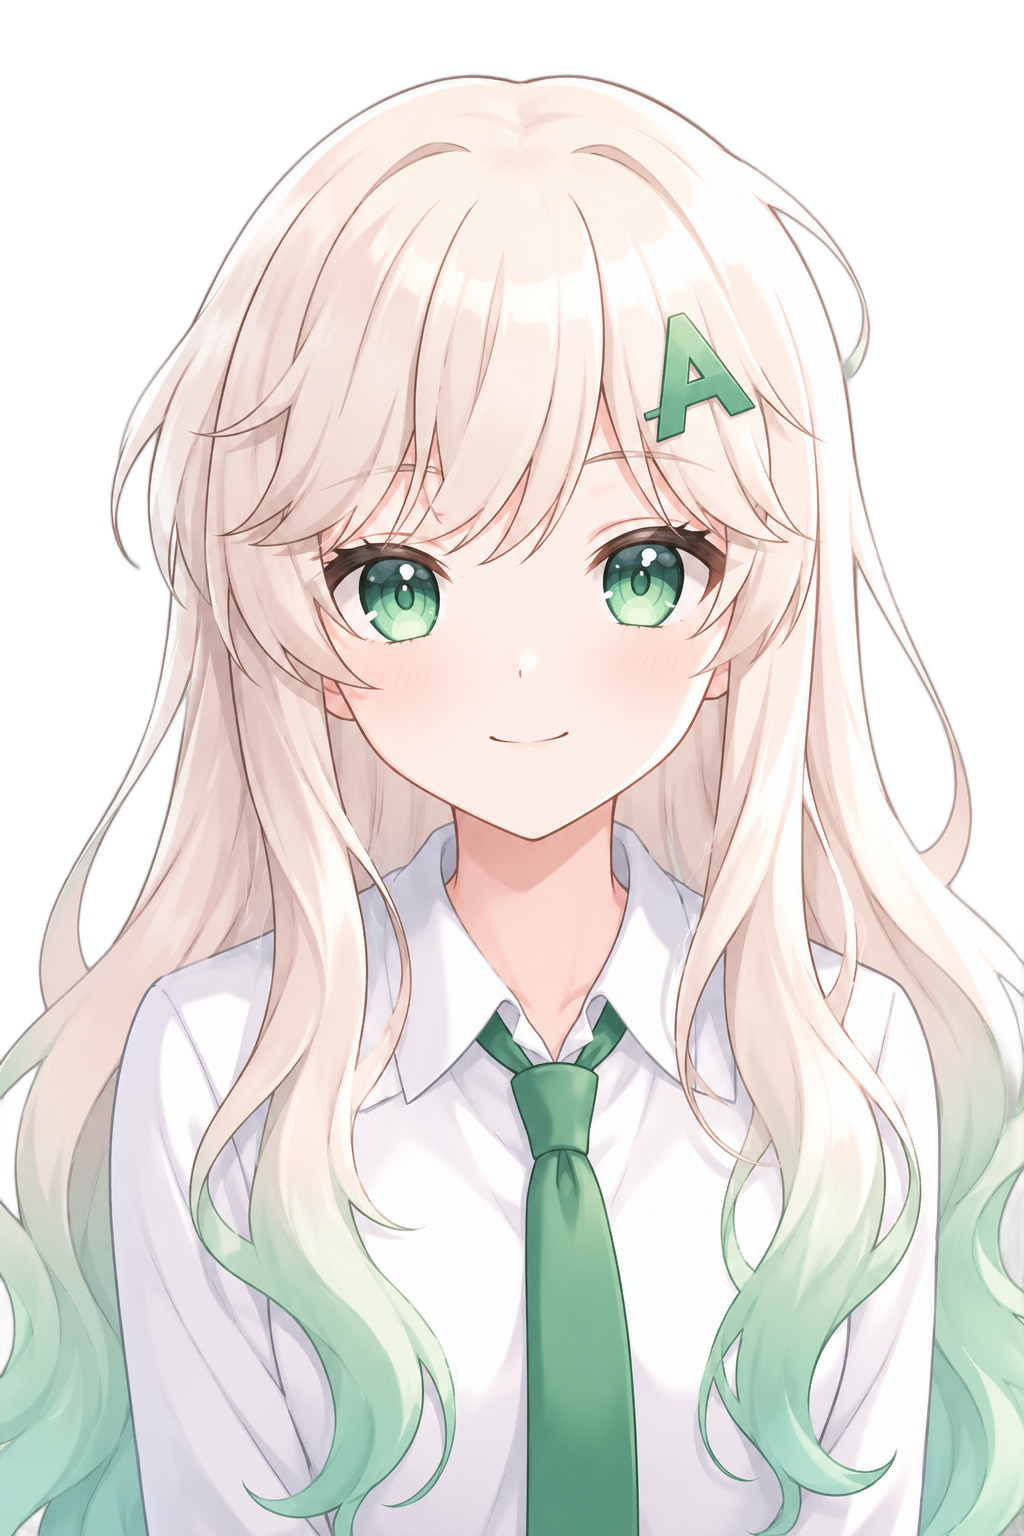
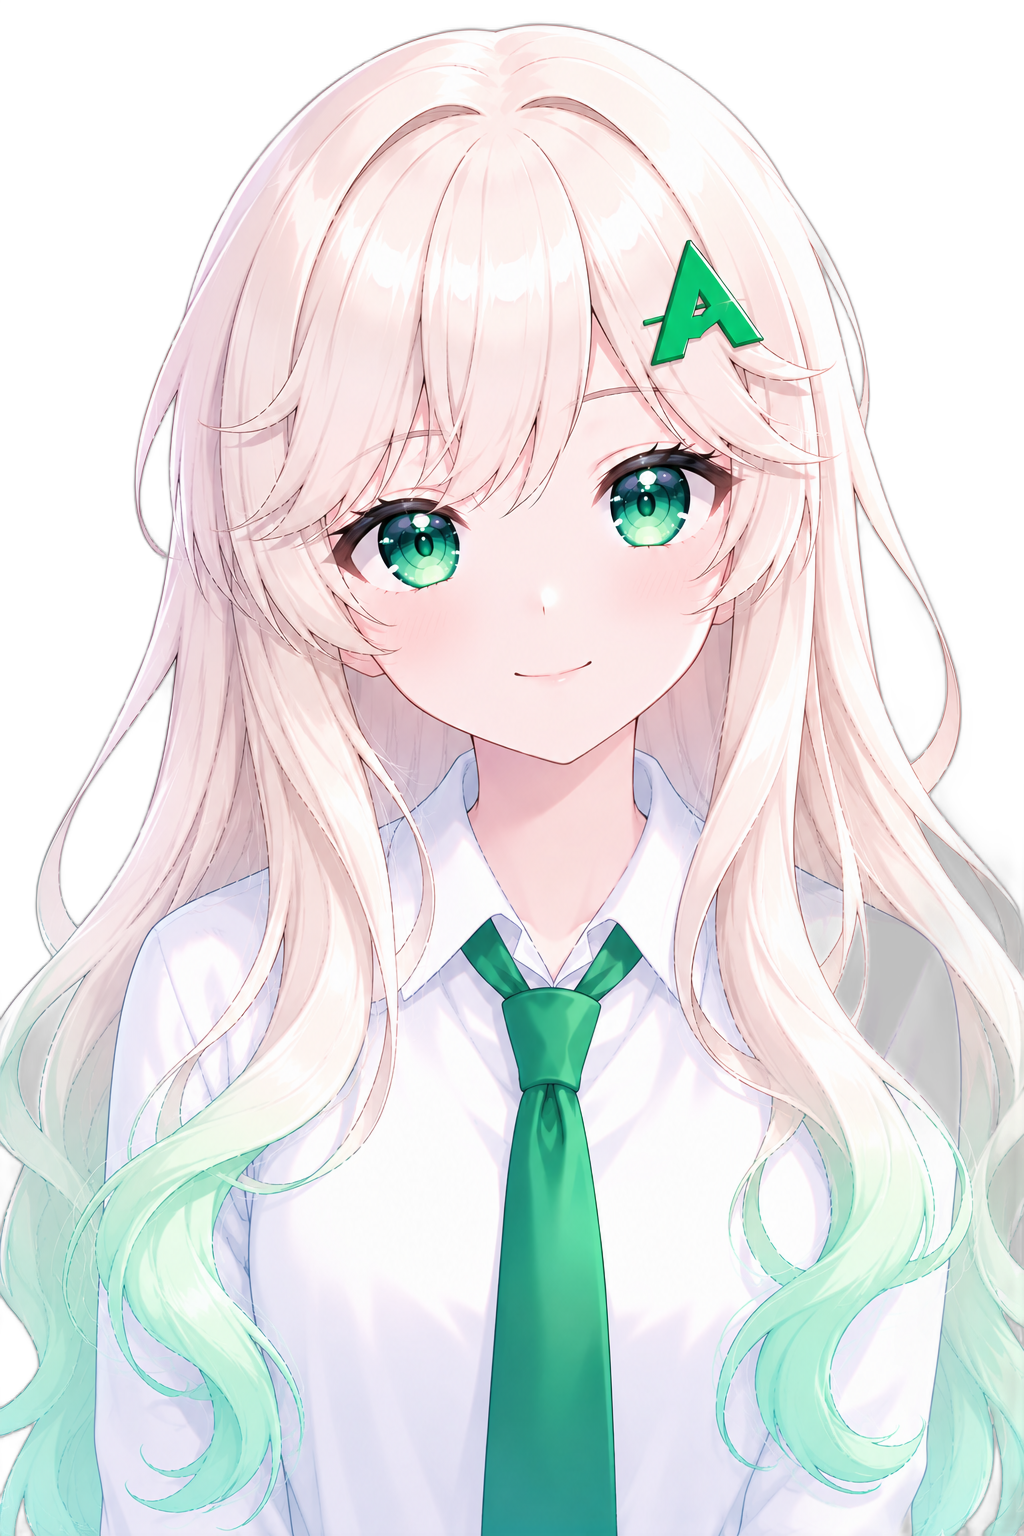
assets(mascot): complete Asahi expression set (base + high/medium/low/wave/thinking), transparent

diff --git a/docs/BRAND.md b/docs/BRAND.md
@@ -484,10 +484,20 @@ This brand requires sign-off from the team before being locked.
 
 ## 12. Mascot
 
-**Status**: Base art done (v1). Files in `assets/mascot/`:
-`asahi-base.png` (with background, for hero/preview) and
-`asahi-base-transparent.png` (RGBA cutout, app-ready). Expression set still pending.
+**Status**: Art done (v1) — base + full expression set, all transparent (RGBA), app-ready.
 Tied to the gamification layer (see `GAMIFICATION.md`).
+
+Files in `assets/mascot/`:
+
+| File | Use |
+|---|---|
+| `asahi-base.png` | base, with background (hero/preview) |
+| `asahi-base-transparent.png` | base, transparent (neutral default) |
+| `asahi-high.png` | result: high score (happy) |
+| `asahi-medium.png` | result: medium score (encouraging) |
+| `asahi-low.png` | result: low score (reassuring) |
+| `asahi-wave.png` | greeting / streak / empty state |
+| `asahi-thinking.png` | loading / thinking |
 
 ![Asahi base art](../assets/mascot/asahi-base.png)
 
@@ -562,6 +572,7 @@ Build a character sheet with consistent expressions for these moments:
 
 ## Changelog
 
+- **v1.3 (2026-05-25)** — Mascot art v1 complete: base + 5 expressions (high/medium/low/wave/thinking), all transparent RGBA cutouts in `assets/mascot/`. Base regenerated for consistent quality.
 - **v1.2 (2026-05-25)** — Added §12 Mascot: "Asahi", a soft-anime study-companion mascot tied to the gamification layer. Defined personality (brand-voice-aligned), brand-tied visuals (emerald eyes, logo hairclip), expression set for result states, usage rules, and AI generation reference. Base art v1 added (`assets/mascot/asahi-base.png`); expressions + transparent cutout pending.
 - **v1.1 (2026-05-04)** — Renamed brand from "Asah" to "Asahlagi" (compound: asah + lagi = "sharpen again"). Updated tagline to "Asah lagi sampai paham." Etymology rewritten to highlight the iterative-learning loop encoded in the name. Logo files updated (wordmark only — icon mark unchanged since first letter is still "A"). Copy templates in §7 updated to use "asah lagi" as a brand-as-action callback in result page headers and recommendations.
 - **v1.0 (2026-05-04)** — Initial draft as "Asah".
